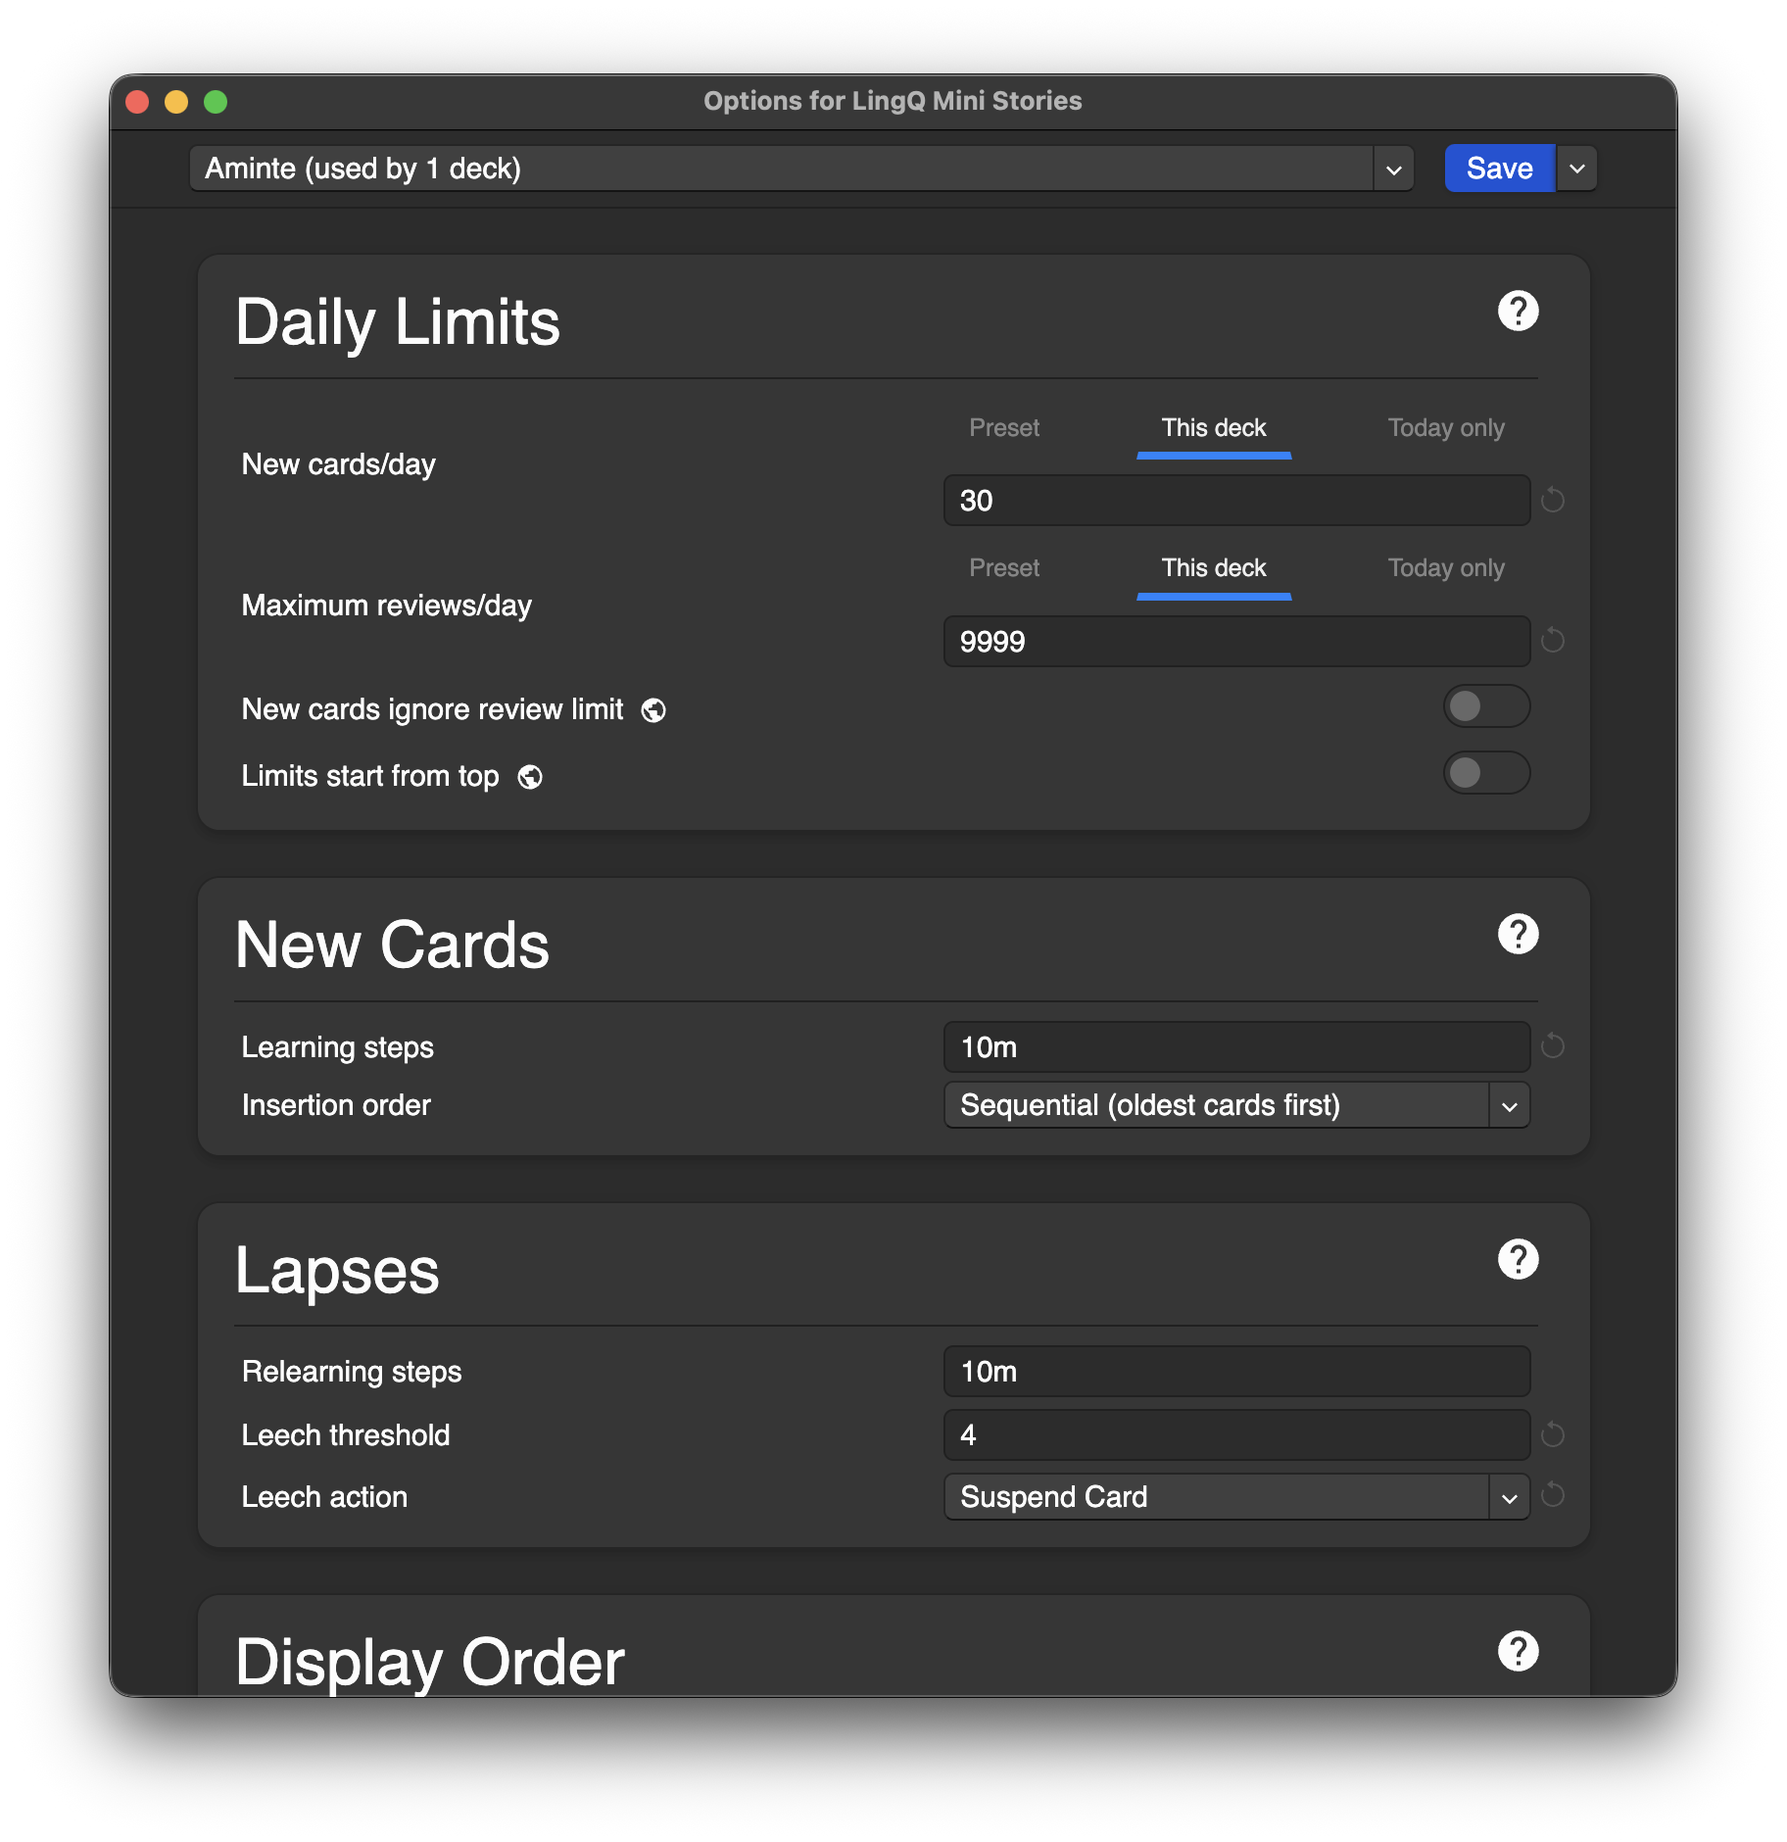
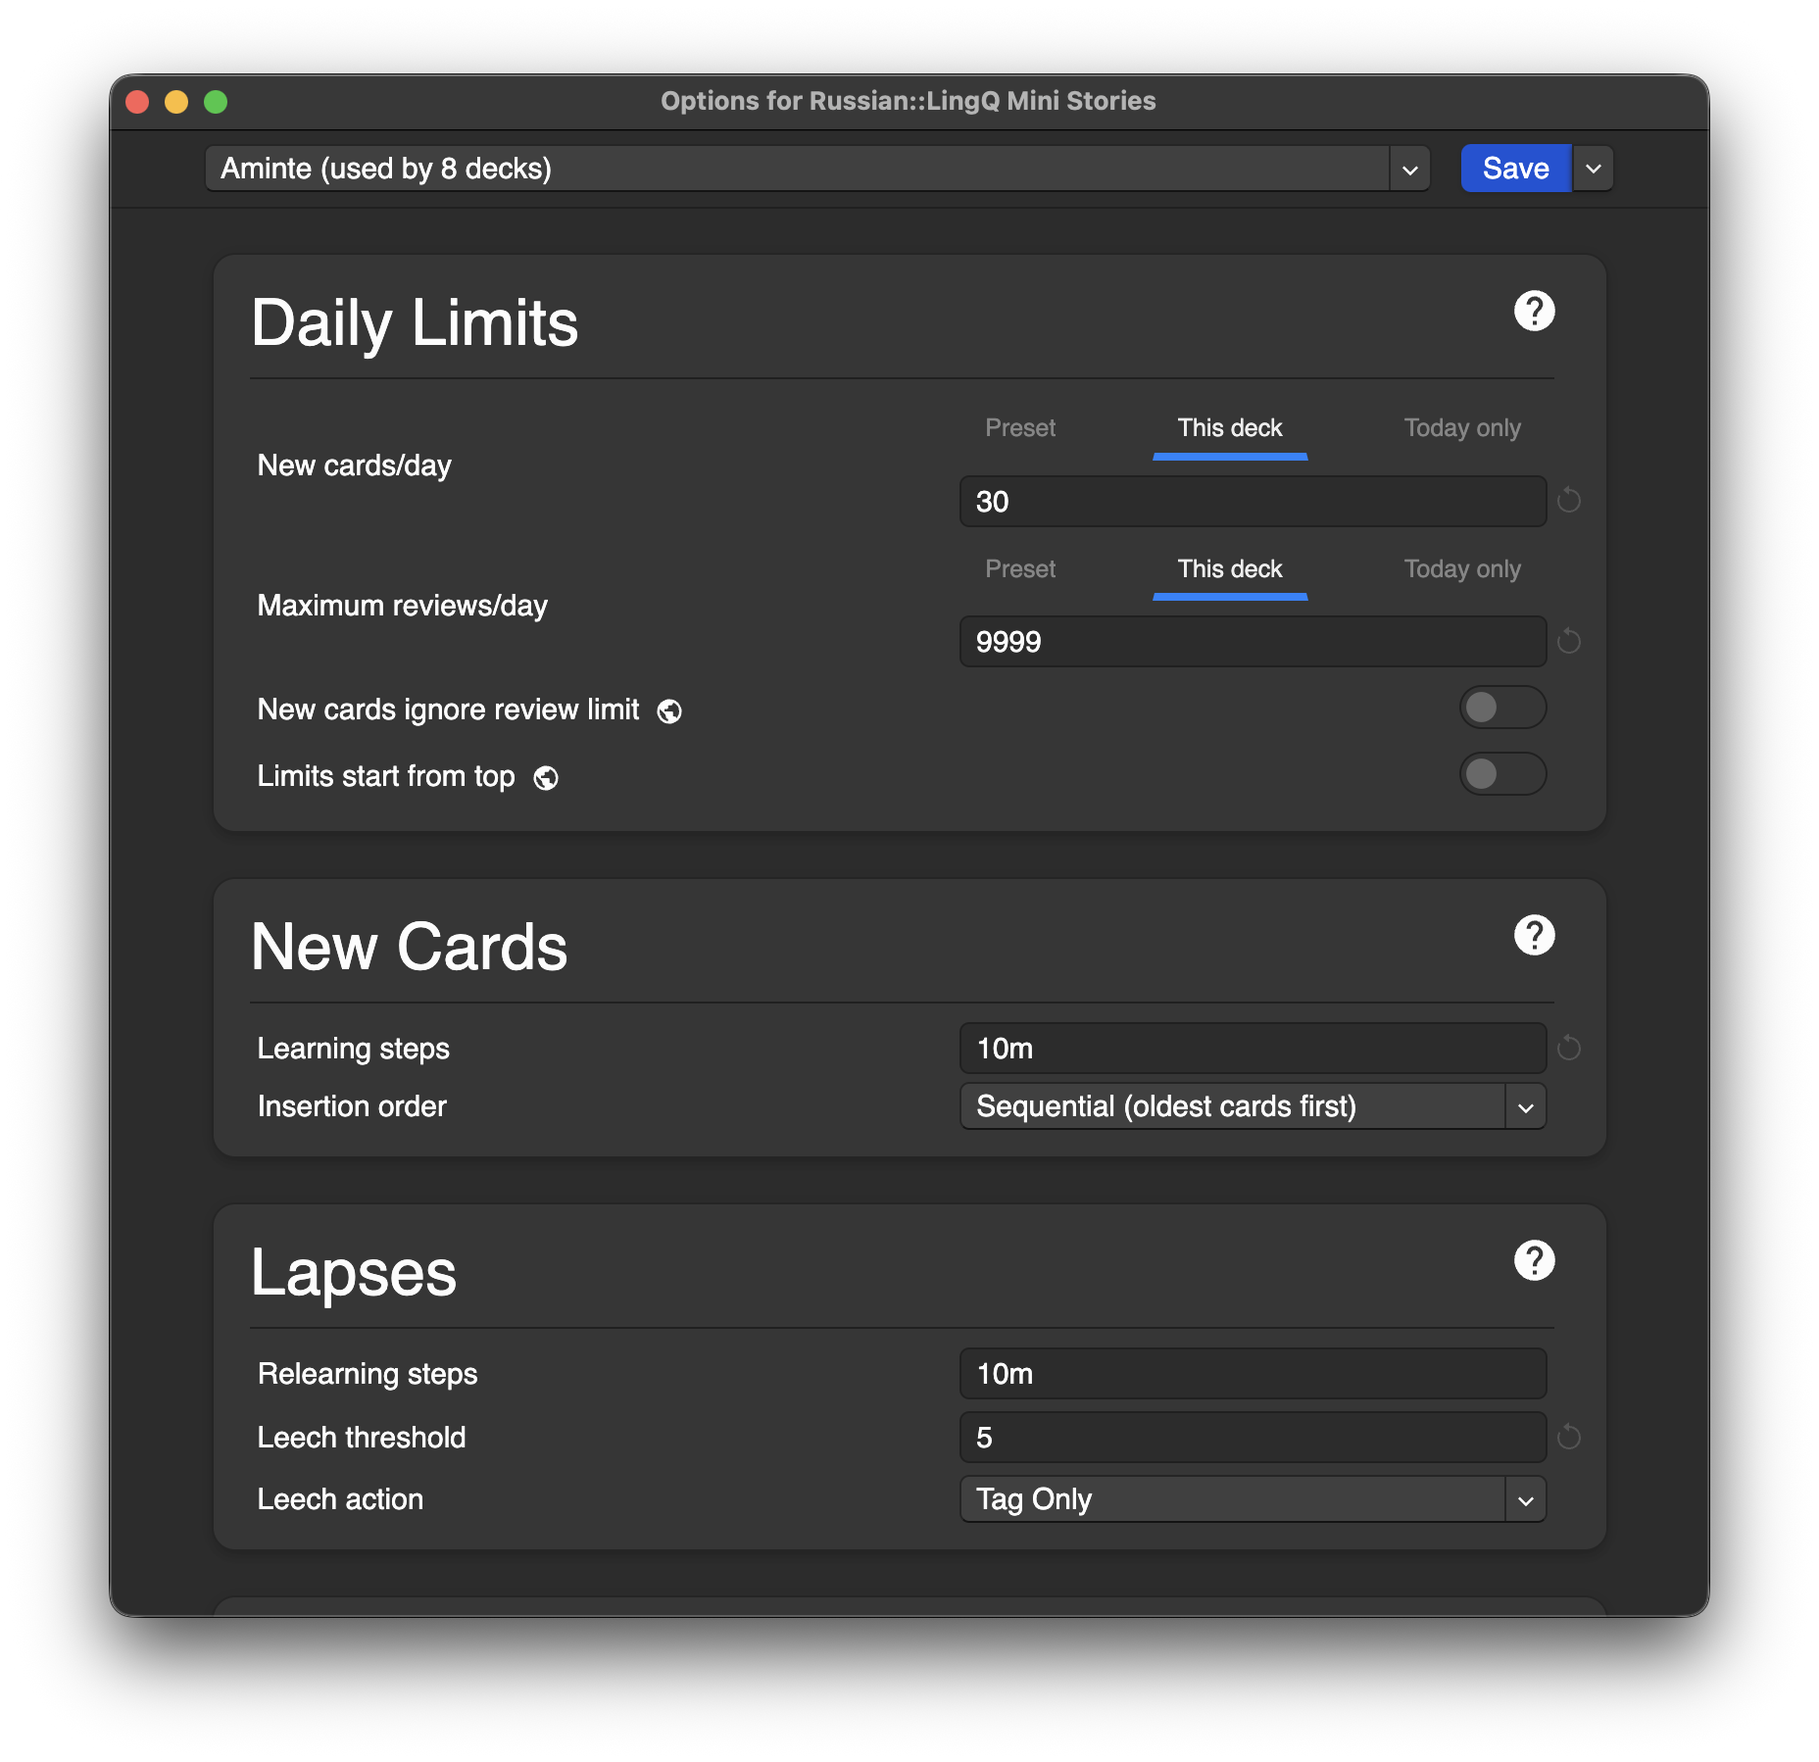
Update language learning series for Aminte v2 and intermediate workflow
- Reframe accent section as informational; note tonal languages
- Make grammar jargon step first-language only
- Add Aminte grammar notes section and link from Prep
- Stop importing whole lessons at intermediate; pick Anki words from tutor sessions
- Add mistake-to-sentence workflow with /romanian-corrections prompt
- Update Anki settings: ascending retrievability, new-card limit as ceiling, leech tag only at 5

diff --git a/content/blog/language-learning/prep.md b/content/blog/language-learning/prep.md
@@ -4,11 +4,13 @@ date = 2026-09-26T21:00:00-04:00
 draft = false
 +++
 
-Before the daily routine starts, I spend a few days on three things: grammar terms in English, the alphabet, and a quick skim of the grammar.
+Before the daily routine starts, I spend a few days on the alphabet and a quick skim of the grammar. If it's your first foreign language, there's one more step before those: learning grammar terms in your native language.
 
-## English grammar jargon
+## Grammar jargon (first language only)
 
-The language learning community seriously underrates this step. Almost every explanation for "why did this word just change form?" is written in grammar jargon, so knowing what I know now, I'd learn the jargon in English first. Learning these concepts for the first time *through* a language you don't understand yet is inefficient. This takes a day or two at most.
+The language learning community seriously underrates this step. Almost every explanation for "why did this word just change form?" is written in grammar jargon, so knowing what I know now, I'd learn the jargon in my native language before starting my first foreign language. Learning these concepts for the first time *through* a language you don't understand yet is brutal, because you're stuck figuring out the concept and the language at the same time. This takes a day or two at most.
+
+You only need to do this once. The terms carry over to every language after that, so if you've already learned a foreign language, skip ahead to [the alphabet](#the-alphabet).
 
 For example, do you know why we say "he gave it to *me*" and not "he gave it to *I*"? That difference matters a lot once you're learning a whole new set of pronouns.
 
@@ -67,7 +69,7 @@ I wouldn't skip this step and just let LingQ's text-to-speech read every word to
 
 How I handle this step can make the difference between sticking with a language and quitting. **I don't study grammar intensely until I've had a lot of exposure to the language.** Without a baseline, grammar rules have nothing to attach to, and trying to apply them anyway just leads to frustration. This is where high school and college courses lose a lot of people. [This video](https://www.youtube.com/watch?v=STYcCNcs_vo) looks at whether college language learning is actually backed by science.
 
-Instead, I *skim* the beginner (A1) grammar guides on [elon.io](https://elon.io/grammar), and I mean skim. If something doesn't click after one or two reads, I move on to the next section. The goal isn't to learn the rules. It's to train myself on *what to notice*: which parts of a sentence should stand out when I run into them later in LingQ. Steve Kaufmann, LingQ's co-founder, calls this [the ability to notice](https://www.youtube.com/watch?v=2_MjQJDs8Xg), and he's the one who popularized the term in the language learning community. Two examples of what I take away:
+Instead, I *skim* the beginner (A1) grammar guides on [elon.io](https://elon.io/grammar), and I mean skim. If something doesn't click after one or two reads, I move on to the next section. The goal isn't to learn the rules. It's to train myself on *what to notice*: which parts of a sentence should stand out when I run into them later in LingQ. Steve Kaufmann, LingQ's co-founder, calls this [the ability to notice](https://www.youtube.com/watch?v=qIF06BpITPE), and he's the one who popularized the term in the language learning community. Two examples of what I take away:
 
 [Russian adjective agreement](https://elon.io/grammar/russian/adjectives/agreement/overview):
 
@@ -80,7 +82,7 @@ Instead, I *skim* the beginner (A1) grammar guides on [elon.io](https://elon.io/
 > | Neuter sg. | -ое / -ее | но́вое, после́днее |
 > | Plural (all genders) | -ые / -ие | но́вые, после́дние |
 
-(See how the [grammar jargon](#english-grammar-jargon) shows up right away?) My takeaway is only the first sentence: *adjectives change shape.* Right now I only care that they change, not what they change into. The goal is to plant a seed of "I think I read about this once" for when I finally see it in action.
+(See how the [grammar jargon](#grammar-jargon-first-language-only) shows up right away?) My takeaway is only the first sentence: *adjectives change shape.* Right now I only care that they change, not what they change into. The goal is to plant a seed of "I think I read about this once" for when I finally see it in action.
 
 [German adjectives](https://elon.io/grammar/german/adjectives/overview):
 
@@ -96,7 +98,7 @@ All of these questions will come up again. The difference is that next time I'll
 
 I don't spend more than a day on this. I'm not going to catch everything, and sometimes I'll read an entire article and catch nothing, which is fine. I skim every A1 article and take whatever sticks.
 
-Grammar usually comes back during my LingQ reading. When I notice something I'm curious about, I jot down a quick note, then ask AI about it while Aminte is importing that lesson's cards.
+After this, grammar comes back in small doses instead of study sessions. Most of my grammar study now happens during Anki reviews, through [Aminte's grammar notes]({{< relref "reading-and-anki.md#studying-grammar-with-aminte-notes" >}}).
 
 ---
 

diff --git a/content/blog/language-learning/speaking.md b/content/blog/language-learning/speaking.md
@@ -22,10 +22,53 @@ A tutor's incentives and a learner's don't line up. Tutors do better when you ke
 So I set it up like this:
 
 - I do the talking, no matter how bad it is.
-- The tutor writes down my mistakes as I go instead of interrupting.
+- The tutor writes down every mistake they notice as I go instead of interrupting.
+- I keep my own list too: every mistake I catch myself making, and every time I get blocked and a word or phrase comes to me in English.
 - At natural pauses, I ask them to go over the list with me.
 - They only explain *why* something is wrong when I ask.
   - No PowerPoint. I ask them to explain with example sentences instead.
+
+### Choosing what goes into Anki
+
+Those lists, especially the blocks, are how I know a word or phrase is useful enough to cram in Anki. A block means I needed it in a real conversation and didn't have it.
+
+In the beginning, almost every word is worth memorizing in Anki, because you're still in the zone of the 2,000 most frequently used words. That stops being true at an intermediate level. Most of the words you're still missing are rare, and that includes the ones you get blocked on in conversation. The difference is that those are relevant to you. If I got blocked on a word while telling my tutor about my week, it's part of my life, and it'll come up again. A random rare word from a LingQ lesson, like "metallurgy," probably won't. By narrowing my new vocabulary down to the stuff I actually talk about, I keep my Anki workload manageable at an intermediate level.
+
+### Turning mistakes into sentences
+
+For every mistake and block on those lists, I come up with a sentence that uses that word or phrase, about my own life or the conversation I just had. Then I have AI correct them.
+
+Fight the urge to paste the mistakes into AI and have it generate all of the sentences for you. You want sentences that are meaningful to you, because that's really what you're practicing here: how to have meaningful conversations in your target language.
+
+Sometimes I just can't come up with a sentence for a word. When that happens, I write all the other sentences first and leave that one blank. That way the AI has the rest of my sentences as context, so it can write one that still has something to do with me.
+
+For the corrections, I use a custom Claude skill I run as `/romanian-corrections`. I paste my mistakes and blocks under *Greșelile/Blocările* (mistakes/blocks) and my numbered sentences under *Propoziții* (sentences). Here's the full prompt, if you want to adapt it for your own language:
+
+{{< details summary="The /romanian-corrections prompt" >}}
+```markdown
+---
+name: "romanian-corrections"
+description: "Correct the user's Romanian practice sentences (Greșelile/Blocările + Propoziții format) and return only the corrected Propoziții list plus brief notes."
+---
+
+The user is learning Romanian. They will paste a list of mistakes/blocks under "Greșelile/Blocările:" and numbered practice sentences under "Propoziții:".
+
+The goal is everyday spoken Romanian, not polished written style. Corrections should sound like what a native speaker would actually say in casual conversation, not bookish or formal.
+- Keep colloquial forms the user already used when they are correct in speech (e.g. "o să" + subjunctive for the future, "nu-s", "n-am", "ăsta/asta", "din cauza asta"). Don't swap them for formal equivalents like "vor" or "din această cauză".
+- Prefer common, conversational words and phrasing over literary or prescriptive choices. Don't flag usages that are standard in everyday speech even if style guides frown on them (e.g. "datorită" for neutral causes).
+- Still fix real errors: grammar, agreement, cases, spelling, diacritics, and words that don't fit the meaning.
+
+Do the following:
+
+1. Correct every sentence so it is grammatical and sounds natural in everyday speech, including diacritics (ă, â, î, ș, ț), capitalization, spelling, and word choice.
+2. If a sentence is blank or only contains a word or form in parentheses, write a natural, conversational sentence that uses that word or form.
+3. If a word or phrase in the mistakes list has no matching sentence, add a sentence for it at the end of the list, continuing the numbering.
+4. Output ONLY the "Propoziții:" section, in exactly the same format the user used: the same heading, numbering, and blank lines between sentences. Do not repeat the mistakes list, and do not add bold or other formatting inside the list.
+5. After the list, add a short "Notes:" section in English with one line per sentence that changed, explaining the main correction. Skip sentences that were already correct. Keep the notes brief.
+
+If the user says they want no notes, skip step 5.
+```
+{{< /details >}}
 
 ## Free practice with strangers: OmeTV
 

diff --git a/content/blog/language-learning/before-you-start.md b/content/blog/language-learning/before-you-start.md
@@ -32,16 +32,21 @@ Here are my Romanian stats in LingQ. I'm upper-intermediate:
 
 My study time (399 hours) plus my listening time (315 hours) comes to about 714 hours, which lines up with the FSI estimate. One caveat: I tracked my time outside LingQ and added it manually. If you only count what LingQ logs on its own, the number won't match your level as closely.
 
-## Deciding whether I care about an accent
+## Whether to care about an accent
 
-This choice has a big impact on how long learning takes, and most people never think about it. Keeping an accent has real benefits that don't get talked about enough.
+This choice has a big impact on how long learning takes, and most people never think about it.
 
-The biggest one: when native speakers hear an accent, they subconsciously slow down and switch to simpler, more common words. Linguists call this *foreigner-directed speech*, and it's not prejudice ([here's a short explainer](https://global-lt.com/blog/how-native-speakers-can-enhance-listening-comprehension-for-non-native-speakers)). It makes conversations much easier.
+### Tonal languages don't give you a choice
 
-The only real payoff I noticed from a native accent is impressing people *at first*, and it costs a lot. I personally love nailing pronunciation, but I wouldn't recommend it to most people:
+In tonal languages like Mandarin, Cantonese, Vietnamese, and Thai, the pitch of a syllable changes what the word means. In Mandarin, *mā* (a high, flat tone) means "mother," while *mà* (a sharp falling tone) means "to scold." Get the tone wrong and you've said a different word, so pronunciation is part of the vocabulary itself. If you're learning one of these, you have to care about your accent from day one.
 
-1. **It takes much longer.** Saying each word out loud adds seconds to every review, compared to a split second of just recognizing it.
-2. **Native speakers get frustrated,** at least in my experience, which cancels out the impressing part. Their subconscious slow-down never kicks in, so when you ask them to slow down, they gradually speed back up until you have to ask again.
+### For everyone else, it's a tradeoff
+
+**The biggest cost is time.** Working on pronunciation prolongs the whole process substantially. Saying each word out loud adds seconds to every review, compared to a split second of just recognizing it, and that adds up over thousands of cards.
+
+Keeping an accent also has real benefits that don't get talked about enough. When native speakers hear an accent, they subconsciously slow down and switch to simpler, more common words. Linguists call this *foreigner-directed speech*, and it's not prejudice ([here's a short explainer](https://global-lt.com/blog/how-native-speakers-can-enhance-listening-comprehension-for-non-native-speakers)). It makes conversations much easier. The flip side, in my experience: with a near-native accent, that slow-down never kicks in, so when you ask someone to slow down, they gradually speed back up until you have to ask again.
+
+I personally love nailing pronunciation, so I chose to work on it, knowing it would take longer.
 
 An accent isn't a failure. We aren't built to hear sounds that don't exist in our native language, and getting them right takes meticulous practice. [This video](https://www.youtube.com/watch?v=FcN3HnQz3y4) explains why really well.
 

diff --git a/content/blog/language-learning/intro.md b/content/blog/language-learning/intro.md
@@ -74,7 +74,7 @@ If you can't commit 2 hours a day, I'd drop Anki and split 1 hour between LingQ 
 ## The parts
 
 1. [Before starting]({{< relref "before-you-start.md" >}}): how long it takes, Duolingo, and whether to care about an accent
-2. [Prep]({{< relref "prep.md" >}}): grammar terms, the alphabet, and a grammar skim, over a few days
+2. [Prep]({{< relref "prep.md" >}}): the alphabet and a grammar skim (plus grammar terms, for your first language), over a few days
 3. [Reading and Anki]({{< relref "reading-and-anki.md" >}}): daily, ~1.5 hours
 4. [Listening]({{< relref "lingq-listening.md" >}}): daily, ~30 minutes
 5. [Speaking]({{< relref "speaking.md" >}}): starting around 6,000 known words
